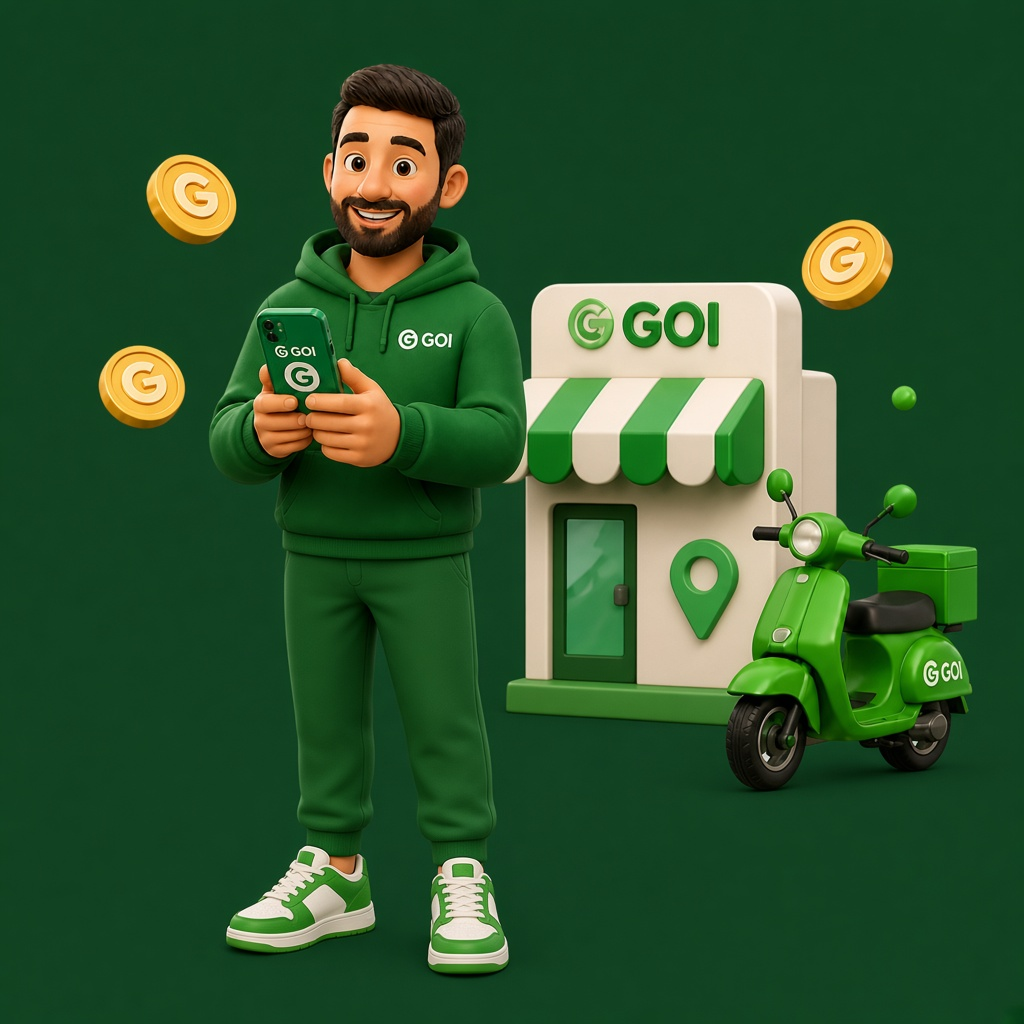
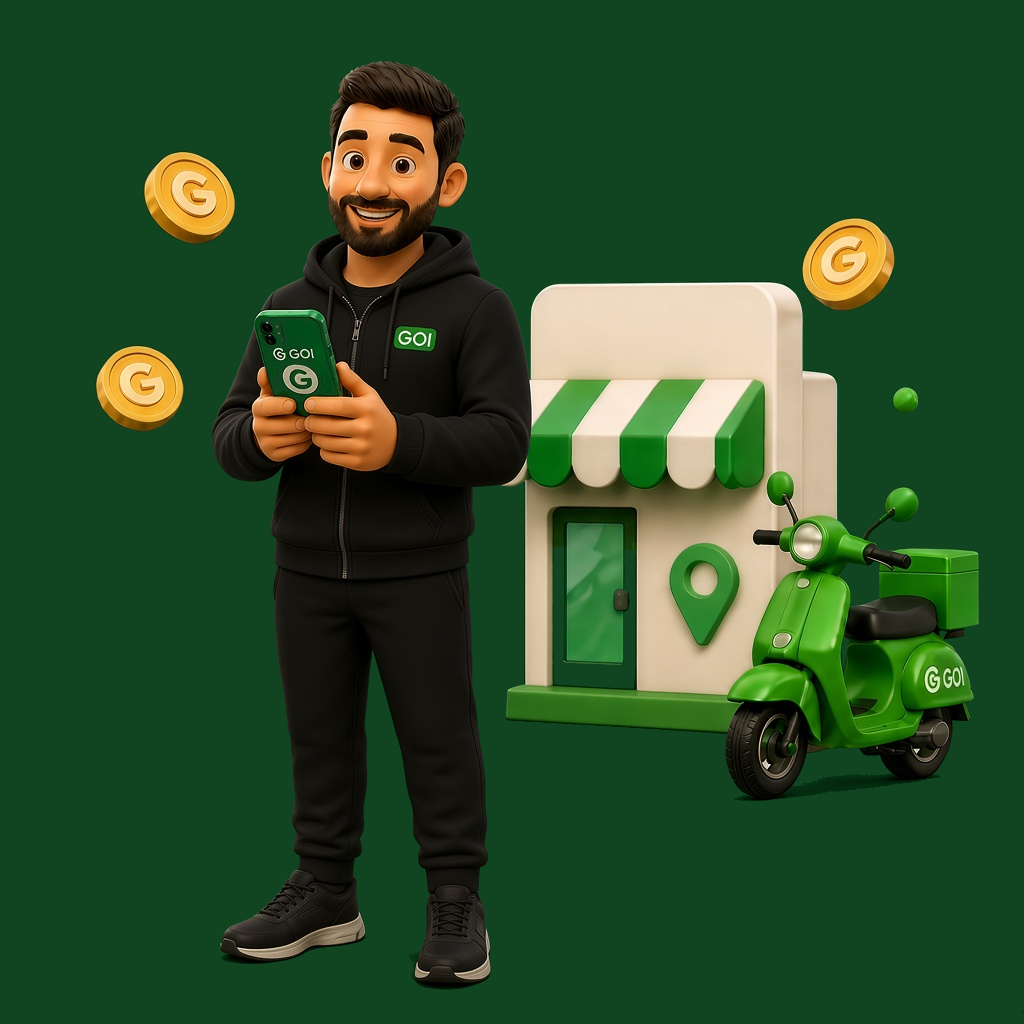
Make Share & Earn hero legs readable with a black tracksuit, and stop prompting for location on new jobs.

diff --git a/goi-bot-frontend/src/routes/courier.new-jobs.tsx b/goi-bot-frontend/src/routes/courier.new-jobs.tsx
@@ -20,7 +20,6 @@ import { nestUpdateMyCourier } from "@/lib/nest-accounts";
 import { LIVE_JOB_OFFLINE_ERROR, courierHasLiveActiveJob } from "@/lib/courier-session";
 import { nestListConversations } from "@/lib/nest-chat";
 import { Bell, ChevronDown, Loader2, MessageCircle, ShoppingBag } from "lucide-react";
-import { useGpsLiveStatus } from "@/hooks/useCourierGpsTracker";
 import { Switch } from "@/components/ui/switch";
 import { toast } from "sonner";
 import { ApiClientError } from "@/lib/api-client";
@@ -32,8 +31,6 @@ import { CourierMenuButton } from "@/components/CourierSideDrawer";
 import { CourierJobsMap, type MapJob } from "@/components/CourierJobsMap";
 import { PullToRefresh } from "@/components/courier/PullToRefresh";
 import { SwipeConfirm } from "@/components/courier/SwipeConfirm";
-import { EnableLocationSheet } from "@/components/courier/EnableLocationSheet";
-import { enableCourierLocationSharing, isDeviceLocationActive } from "@/lib/courier-location";
 
 export const Route = createFileRoute("/courier/new-jobs")({
   head: () => ({ meta: [{ title: "עבודות חדשות — Goi" }] }),
@@ -74,13 +71,6 @@ function NewJobsPage() {
   const [stickyFocusId, setStickyFocusId] = useState<string | undefined>();
   const sessionSkippedRef = useRef(new Map<string, number>());
   const [sessionSkipGen, setSessionSkipGen] = useState(0);
-  const [locationOfferOpen, setLocationOfferOpen] = useState(false);
-  const availabilityReadyRef = useRef(false);
-  const wasAvailableRef = useRef(false);
-  const locationOfferCheckedRef = useRef(false);
-  const gps = useGpsLiveStatus();
-  const gpsRef = useRef(gps);
-  gpsRef.current = gps;
 
   const { data: declinedRows = [] } = useQuery({
     queryKey: ["courier-job-declines", me?.id],
@@ -152,49 +142,6 @@ function NewJobsPage() {
       return data.filter((j: any) => isOpenBroadcastJobForCourier(j, me) && !isJobSkippedAtCurrentPrice(j, skips));
     },
   });
-
-  useEffect(() => {
-    if (!me) {
-      availabilityReadyRef.current = false;
-      wasAvailableRef.current = false;
-      locationOfferCheckedRef.current = false;
-      return;
-    }
-    if (!availabilityReadyRef.current) {
-      availabilityReadyRef.current = true;
-      wasAvailableRef.current = isAvailable;
-      locationOfferCheckedRef.current = isAvailable;
-      return;
-    }
-    if (!isAvailable) {
-      wasAvailableRef.current = false;
-      locationOfferCheckedRef.current = false;
-      return;
-    }
-    const justWentOnline = !wasAvailableRef.current;
-    wasAvailableRef.current = true;
-    if (!justWentOnline || locationOfferCheckedRef.current) return;
-    locationOfferCheckedRef.current = true;
-
-    const sharingEnabled = me.location_sharing_enabled === true;
-    void (async () => {
-      const active = await isDeviceLocationActive({
-        gps: gpsRef.current,
-        sharingEnabled,
-      });
-      if (!wasAvailableRef.current) return;
-      if (active) {
-        if (!sharingEnabled) {
-          try {
-            await enableCourierLocationSharing();
-            qc.invalidateQueries({ queryKey: ["my-courier-me"] });
-          } catch {}
-        }
-        return;
-      }
-      setLocationOfferOpen(true);
-    })();
-  }, [me, isAvailable, qc]);
 
   useEffect(() => {
     if (!me?.id || !isAvailable) return;
@@ -584,8 +531,6 @@ function NewJobsPage() {
           </div>
       </div>
       </PullToRefresh>
-
-      <EnableLocationSheet open={locationOfferOpen} onOpenChange={setLocationOfferOpen} />
 
       <Dialog open={!!detail} onOpenChange={(o) => !o && setDetail(null)}>
         <DialogContent dir="rtl" className="text-start [&>button]:right-auto [&>button]:left-4 p-0 gap-0 max-w-[min(95vw,400px)]">

diff --git a/goi-bot-frontend/src/routes/courier.share.tsx b/goi-bot-frontend/src/routes/courier.share.tsx
@@ -230,10 +230,10 @@ function SharePage() {
 
         <div className="min-h-0 flex-1 overflow-y-auto overscroll-y-contain px-4 pb-[max(1.25rem,env(safe-area-inset-bottom))] pt-4 sm:px-6">
           <div className="mx-auto flex w-full max-w-lg flex-col gap-4 lg:max-w-5xl">
-            <section className="overflow-hidden rounded-[1.5rem] bg-[#104421] text-white shadow-[0_12px_28px_rgba(12,40,18,0.22)]">
+            <section className="overflow-hidden rounded-[1.5rem] bg-[#114421] text-white shadow-[0_12px_28px_rgba(12,40,18,0.22)]">
               <div className="relative h-56 w-full overflow-hidden sm:h-64">
                 <img
-                  src="/courier/share-hero.png?v=5"
+                  src="/courier/share-hero.png?v=8"
                   alt=""
                   className="absolute inset-0 h-full w-full object-contain object-bottom"
                 />
@@ -247,7 +247,7 @@ function SharePage() {
                   type="button"
                   onClick={() => void copy(courierLink)}
                   disabled={!linkReady}
-                  className="flex min-h-12 w-full items-center justify-center gap-2 rounded-full bg-white text-sm font-extrabold text-[#104421] disabled:opacity-60"
+                  className="flex min-h-12 w-full items-center justify-center gap-2 rounded-full bg-white text-sm font-extrabold text-[#114421] disabled:opacity-60"
                 >
                   <Copy className="size-4" />
                   {linkReady ? "העתק קישור לשליחים" : mePending ? "טוען קישור…" : "הקישור יופיע בעוד רגע"}
